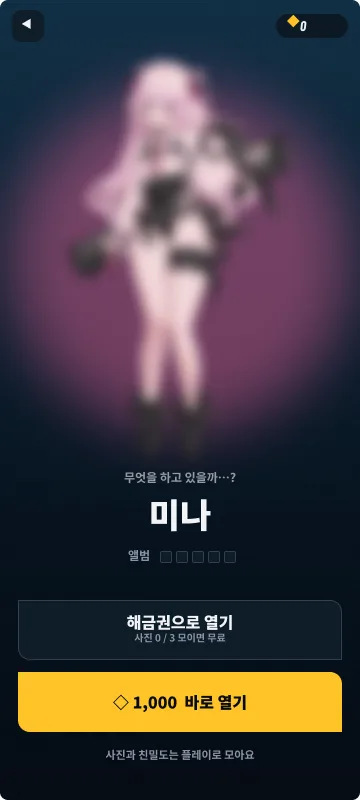
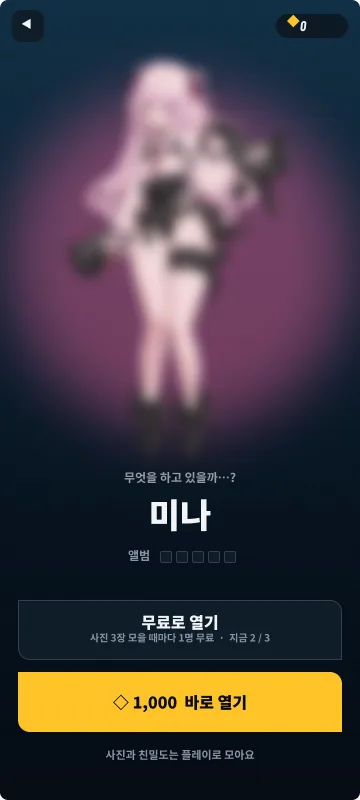
Proposal: single currency, progress-based unlock, step-up gacha, rate-display note
Claude-Session: https://claude.ai/code/session_01QC4LnGUoEV4hPAaGSGh6GF

Changed region(s): [[0.2444, 0.75, 0.7639, 0.8125]]

diff --git a/territory-romance-f2p-proposal.html b/territory-romance-f2p-proposal.html
@@ -94,7 +94,7 @@ footer{border-top:1px solid var(--line);padding-top:18px;color:var(--muted);font
   <figure class="shot"><img src="japan-project/proposal-screens/02-puzzle.webp" alt="" loading="lazy"><figcaption><b><i>02</i>땅따먹기</b><span>80% 열면 사진 1장</span></figcaption></figure>
   <figure class="shot"><img src="japan-project/proposal-screens/03-timeup.webp" alt="" loading="lazy"><figcaption><b><i>03</i>시간 초과</b><span>"8%만 더" — 여기서 결제</span></figcaption></figure>
   <figure class="shot"><img src="japan-project/proposal-screens/04-clear.webp" alt="" loading="lazy"><figcaption><b><i>04</i>사진 획득</b><span>앨범 1/5 · 대화 열림</span></figcaption></figure>
-  <figure class="shot"><img src="japan-project/proposal-screens/05-talk.webp" alt="" loading="lazy"><figcaption><b><i>05</i>대화</b><span>답장마다 대화권 1장</span></figcaption></figure>
+  <figure class="shot"><img src="japan-project/proposal-screens/05-talk.webp" alt="" loading="lazy"><figcaption><b><i>05</i>대화</b><span>무료 답장 5회 · 이후 ◇20</span></figcaption></figure>
   <figure class="shot"><img src="japan-project/proposal-screens/06-bond.webp" alt="" loading="lazy"><figcaption><b><i>06</i>관계</b><span>♥ 모자라면 다음 사진 잠김</span></figcaption></figure>
   <figure class="shot"><img src="japan-project/proposal-screens/07-ending.webp" alt="" loading="lazy"><figcaption><b><i>07</i>엔딩 뽑기</b><span>첫 1회 무료 · 최고 UR</span></figcaption></figure>
   <figure class="shot"><div class="holo"><img src="japan-project/proposal-screens/08-result.webp" alt="" loading="lazy" style="border-radius:16px"></div><figcaption><b><i>08</i>결과</b><span>UR = 홀로 + 움직임</span></figcaption></figure>
@@ -103,17 +103,17 @@ footer{border-top:1px solid var(--line);padding-top:18px;color:var(--muted);font
 
 <section id="bond">
  <h2>마음을 못 얻으면, 다음 사진도 없다</h2>
- <p class="sub">사진 퍼즐 입장권 = 친밀도. 말실수는 대화권으로 되돌린다.</p>
+ <p class="sub">사진 퍼즐 입장권 = 친밀도. 말실수는 되돌린다.</p>
  <div class="duo">
   <div class="pair">
    <figure><img src="japan-project/proposal-screens/05-talk.webp" alt="대화" loading="lazy"></figure>
    <figure><img src="japan-project/proposal-screens/06-bond.webp" alt="관계" loading="lazy"></figure>
   </div>
   <ul class="pts">
-   <li>답장 1번 = <b>대화권 1장</b> · 하루 무료 5장</li>
+   <li>답장 <b>하루 무료 5회</b> · 이후 1회 <b>◇20</b></li>
    <li>♥는 <b>고른 뒤 공개</b> — 단, 알아낸 취향은 <b>태그</b>로 보인다</li>
    <li>사진 2 <b>♥15</b> · 사진 3 <b>♥45</b> · 사진 4 <b>♥70</b> · 엔딩 <b>♥100</b></li>
-   <li>♥ 2 모자랄 때 → 자정까지 기다리거나 <b>대화권 5장 ◇100</b></li>
+   <li>♥ 2 모자랄 때 → 자정까지 기다리거나 <b>◇20으로 계속 대화</b></li>
   </ul>
  </div>
 </section>
@@ -135,10 +135,10 @@ footer{border-top:1px solid var(--line);padding-top:18px;color:var(--muted);font
    </div>
    <ul class="pts" style="margin-top:12px">
     <li>뽑기 화면에 <b>“최고 UR까지”</b> 뱃지 + 확률 한 줄 상시 노출</li>
-    <li>다시 뽑기 = 확인 시트 1장: <b>내 보유 등급 · UR까지 남은 횟수 · ◇300</b></li>
-    <li><b>20회째 UR 확정</b> (무료 1회 포함)</li>
+    <li>다시 뽑기 = 확인 시트 1장: <b>내 보유 등급 · 다음 확정까지 남은 횟수 · ◇300</b></li>
+    <li>확률 + 스텝업: <b>5회째 SR 이상 · 20회째 UR 확정</b> (무료 1회 포함)</li>
     <li>어떤 등급이든 첫 1장으로 앨범 5/5 — 무과금도 엔딩 본다</li>
-    <li>중복 등급 → 대화권 3장 · 등급 모으기 보상 없음</li>
+    <li>중복 등급 → ◇60 · 등급 모으기 보상 없음</li>
    </ul>
   </div>
  </div>
@@ -150,7 +150,7 @@ footer{border-top:1px solid var(--line);padding-top:18px;color:var(--muted);font
  <div class="fixes">
   <div class="fix"><img src="japan-project/proposal-screens/n1-note.webp" alt="" loading="lazy"><div><div class="no">답을 운으로 찍는다</div><h3>취향 노트</h3><p>알아낸 취향이 선택지에 <b>태그</b>로 뜬다. 맞히는 건 실력.</p></div></div>
   <div class="fix"><img src="japan-project/proposal-screens/05-talk.webp" alt="" loading="lazy"><div><div class="no">틀리면 그냥 손해</div><h3>실패도 수집</h3><p>나쁜 답 = 싫어하는 취향 기록. <b>되돌리기 하루 1회 무료</b>, 3연속 정답 콤보 ♥+2.</p></div></div>
-  <div class="fix"><img src="japan-project/proposal-screens/p1-pass.webp" alt="" loading="lazy"><div><div class="no">돈을 세 번 묻는다</div><h3>루트 패스 ¥980</h3><p>대화권 매일 +3 · 이어하기 3 · 다시 뽑기 3을 <b>한 번에</b>. 구매 제안은 세션당 1회.</p></div></div>
+  <div class="fix"><img src="japan-project/proposal-screens/p1-pass.webp" alt="" loading="lazy"><div><div class="no">돈을 세 번 묻는다</div><h3>루트 패스 ¥980</h3><p>무료 답장 매일 +3 · 이어하기 3 · 다시 뽑기 3을 <b>한 번에</b>. 구매 제안은 세션당 1회.</p></div></div>
   <div class="fix"><img src="japan-project/proposal-screens/07-ending.webp" alt="" loading="lazy"><div><div class="no">최고 엔딩이 순전히 운</div><h3>관계 등급 보너스</h3><p>A = 첫 뽑기 <b>SR 이상 확정</b> · S = UR 확률 3배. 잘한 만큼 높게.</p></div></div>
   <div class="fix noimg"><div><div class="no">퍼즐에서 막혀 이탈</div><h3>도움 모드</h3><p>2연속 실패 → 다음 판 <b>시작 영역 +10%</b>. 무료.</p></div></div>
   <div class="fix noimg"><div><div class="no">무과금은 목표가 없다</div><h3>일일 미션 ◇40</h3><p>퍼즐 1 · 대화 1 · 앨범 보기. 캐릭터 한 명 끝낼 때쯤 <b>다시 뽑기 1회분</b>.</p></div></div>
@@ -162,7 +162,7 @@ footer{border-top:1px solid var(--line);padding-top:18px;color:var(--muted);font
  <p class="sub">보유 캐릭터는 엔딩까지 남은 것, 잠긴 캐릭터는 흐리게 움직이게.</p>
  <div class="grid3">
   <figure class="shot"><img src="japan-project/proposal-screens/l1-list.webp" alt="" loading="lazy"><figcaption><b>전체 보기</b><span>카드마다 엔딩 진행도 · 최고 등급</span></figcaption></figure>
-  <figure class="shot"><img src="japan-project/proposal-screens/l2-locked.webp" alt="" loading="lazy"><figcaption><b>잠긴 캐릭터</b><span>해금권 or ◇1,000</span></figcaption></figure>
+  <figure class="shot"><img src="japan-project/proposal-screens/l2-locked.webp" alt="" loading="lazy"><figcaption><b>잠긴 캐릭터</b><span>사진 3장마다 1명 무료 or ◇1,000</span></figcaption></figure>
   <figure class="shot"><img src="japan-project/proposal-screens/l1f-filter.webp" alt="" loading="lazy"><figcaption><b>정렬 · 필터</b><span>추천순 · 진행률 · 신규</span></figcaption></figure>
  </div>
 </section>
@@ -174,22 +174,22 @@ footer{border-top:1px solid var(--line);padding-top:18px;color:var(--muted);font
   <div class="num"><b>12명</b><span>출시 캐릭터 · 월 +2</span></div>
   <div class="num"><b>5장</b><span>캐릭터당 앨범 (사진 4 + 엔딩)</span></div>
   <div class="num"><b>3등급</b><span>엔딩 R · SR · UR</span></div>
-  <div class="num"><b>5장/일</b><span>무료 대화권</span></div>
+  <div class="num"><b>◇ 하나</b><span>해금권 · 대화권 없음</span></div>
   <div class="num"><b>~8일</b><span>무과금 1명 완결</span></div>
  </div>
 </section>
 
 <section id="money">
- <h2>돈 버는 곳은 다섯 군데</h2>
+ <h2>재화는 ◇ 하나, 쓰는 곳은 다섯 군데</h2>
  <p class="sub">기다리기 싫을 때, 거의 다 열었을 때, 말실수했을 때, 더 높은 엔딩이 보일 때.</p>
  <div class="money">
   <div class="mcard"><img src="japan-project/proposal-screens/l2-locked.webp" alt="" loading="lazy"><div><h3>캐릭터 바로 열기</h3><div class="price">◇ 1,000</div><p>접근만 앞당긴다. 사진·친밀도는 0부터.</p></div></div>
   <div class="mcard"><img src="japan-project/proposal-screens/03-timeup.webp" alt="" loading="lazy"><div><h3>이어하기 · 부스터</h3><div class="price">◇ 100~150</div><p>사진 직전 실패에서 +30초. 스타터 팩 ¥980.</p></div></div>
-  <div class="mcard"><img src="japan-project/proposal-screens/06-bond.webp" alt="" loading="lazy"><div><h3>대화권</h3><div class="price">5장 ◇ 100</div><p>♥가 모자랄 때, 나쁜 답을 되돌릴 때.</p></div></div>
-  <div class="mcard"><img src="japan-project/proposal-screens/e1-repull.webp" alt="" loading="lazy"><div><h3>엔딩 다시 뽑기</h3><div class="price">◇ 300</div><p>R 70 · SR 25 · UR 5%. 20회째 UR 확정.</p></div></div>
+  <div class="mcard"><img src="japan-project/proposal-screens/06-bond.webp" alt="" loading="lazy"><div><h3>추가 답장</h3><div class="price">◇ 20 / 회</div><p>무료 5회를 다 썼는데 ♥가 모자랄 때.</p></div></div>
+  <div class="mcard"><img src="japan-project/proposal-screens/e1-repull.webp" alt="" loading="lazy"><div><h3>엔딩 다시 뽑기</h3><div class="price">◇ 300</div><p>R 70 · SR 25 · UR 5%. 5회째 SR↑ · 20회째 UR 확정.</p></div></div>
   <div class="mcard"><img src="japan-project/proposal-screens/p1-pass.webp" alt="" loading="lazy"><div><h3>캐릭터 루트 패스</h3><div class="price">¥ 980</div><p>위 세 가지를 한 번에. 캐릭터당 1회.</p></div></div>
  </div>
- <div class="rule">사진 · 친밀도는 팔지 않는다. 기본 엔딩은 무료 1회로 보장한다. 구매 제안은 세션당 한 번.</div>
+ <div class="rule">화면에 보이는 재화는 ◇ 하나(내부는 유상/무상 분리). 사진 · 친밀도는 팔지 않는다. 기본 엔딩은 무료 1회로 보장한다. 구매 제안은 세션당 한 번.</div>
 </section>
 
 <section id="scope">
@@ -202,5 +202,5 @@ footer{border-top:1px solid var(--line);padding-top:18px;color:var(--muted);font
  </div>
 </section>
 
-<footer>전체 화면 · 스펙 주석은 <a href="https://www.figma.com/design/yqd3KRXA28gaCRWylWto5Z/notepad?node-id=180-2">Figma 보드</a>에서. · 검토 필요: 확률 표시 · 천장 · 컴프가챠 여부 법무 확인 (景品表示法 · 플랫폼 규약) · 가격은 추정치, 플랫폼 확정 후 재산정 · 캐릭터 이미지는 내부 목업용 레퍼런스</footer>
+<footer>전체 화면 · 스펙 주석은 <a href="https://www.figma.com/design/yqd3KRXA28gaCRWylWto5Z/notepad?node-id=180-2">Figma 보드</a>에서. · 확률 표시: 일본 법률상 의무는 아니나 업계 가이드라인(JOGA)·플랫폼 규약 기준으로 표시 · 컴프가챠 금지(景品表示法) · 유상 ◇ 잔액 관리(資金決済法) 법무 확인 · 가격은 추정치, 플랫폼 확정 후 재산정 · 캐릭터 이미지는 내부 목업용 레퍼런스</footer>
 </div></body></html>
